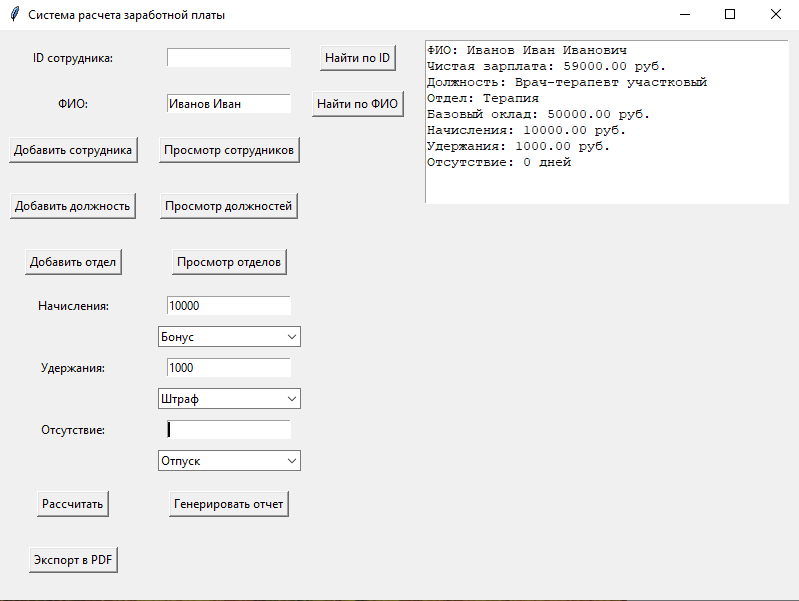
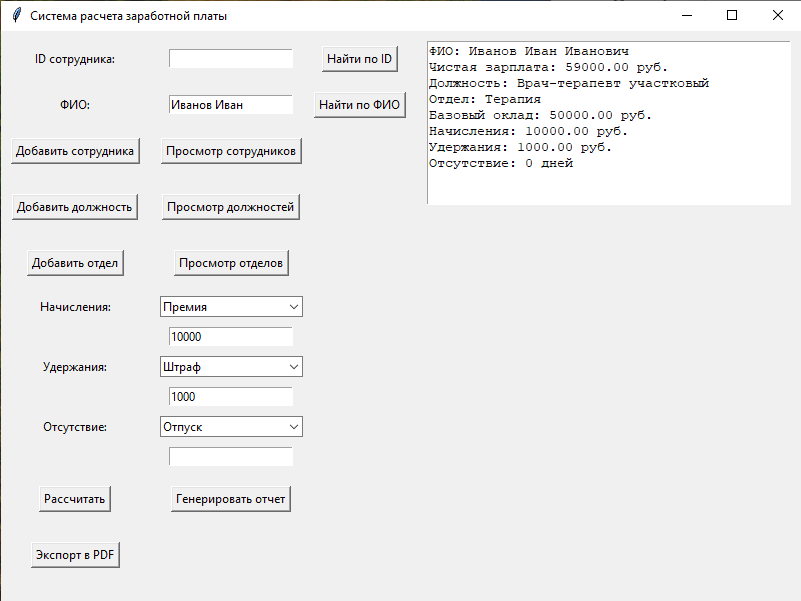
Обновлён скриншот, исправлен интерфейс

diff --git a/client/ui.py b/client/ui.py
@@ -88,32 +88,32 @@ class PayrollAppUI:
         # Начисления
         tk.Label(self.root, text="Начисления:").grid(row=6, column=0, padx=10, pady=5)
         self.accrual_entry = tk.Entry(self.root)
-        self.accrual_entry.grid(row=6, column=1, padx=10, pady=5)
+        self.accrual_entry.grid(row=7, column=1, padx=10, pady=5)
         self.accrual_type_var = tk.StringVar(self.root)
         self.accrual_type_var.set("Бонус")  # Значение по умолчанию
         accrual_type_menu = ttk.Combobox(self.root, textvariable=self.accrual_type_var,
                                          values=["Бонус", "Премия", "Компенсация"])
-        accrual_type_menu.grid(row=7, column=1, padx=10, pady=5)
+        accrual_type_menu.grid(row=6, column=1, padx=10, pady=5)
 
         # Удержания
         tk.Label(self.root, text="Удержания:").grid(row=8, column=0, padx=10, pady=5)
         self.deduction_entry = tk.Entry(self.root)
-        self.deduction_entry.grid(row=8, column=1, padx=10, pady=5)
+        self.deduction_entry.grid(row=9, column=1, padx=10, pady=5)
         self.deduction_type_var = tk.StringVar(self.root)
         self.deduction_type_var.set("Налог")  # Значение по умолчанию
         self.deduction_type_menu = ttk.Combobox(self.root, textvariable=self.deduction_type_var,
                                                 values=["Налог", "Штраф", "Вычет"])
-        self.deduction_type_menu.grid(row=9, column=1, padx=10, pady=5)
+        self.deduction_type_menu.grid(row=8, column=1, padx=10, pady=5)
 
         # Отсутствие
         tk.Label(self.root, text="Отсутствие:").grid(row=10, column=0, padx=10, pady=5)
         self.absence_entry = tk.Entry(self.root)
-        self.absence_entry.grid(row=10, column=1, padx=10, pady=5)
+        self.absence_entry.grid(row=11, column=1, padx=10, pady=5)
         self.absence_type_var = tk.StringVar(self.root)
         self.absence_type_var.set("Отпуск")  # Значение по умолчанию
         self.absence_type_menu = ttk.Combobox(self.root, textvariable=self.absence_type_var,
                                               values=["Отпуск", "Больничный", "Прогул"])
-        self.absence_type_menu.grid(row=11, column=1, padx=10, pady=5)
+        self.absence_type_menu.grid(row=10, column=1, padx=10, pady=5)
 
     def search_employee(self):
         """Поиск сотрудника по ID"""
